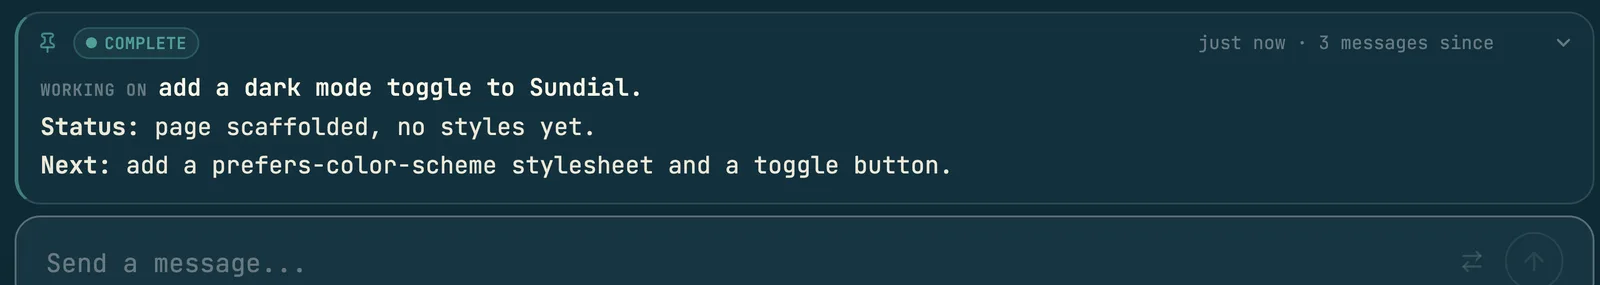
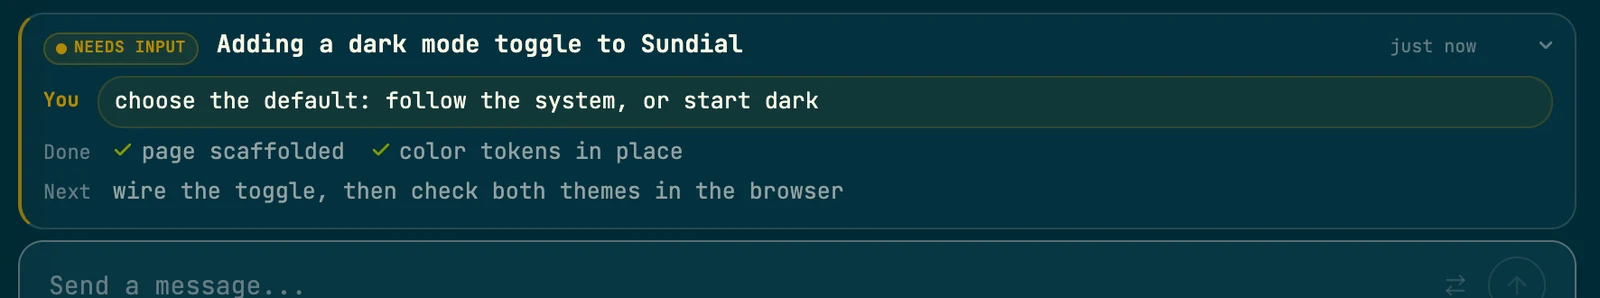
docs(web): thread state guide and hero sample follow the new card
New panel screenshot, the guide's description of the header, rows and age,
the freshness figure's labels, and the hero's sample note in the new shape.

Codecast-Session: https://codecast.sh/conversation/jx788rfp0cv6rnw4pznhjtshdh8gcpge

Changed region(s): [[0.0, 0.0561, 1.0, 1.0], [0.75, 0.1123, 1.0, 0.1965], [0.9688, 0.0281, 1.0, 0.0561]]

diff --git a/packages/web/app/(marketing)/heroFly/fixtures/automation.ts b/packages/web/app/(marketing)/heroFly/fixtures/automation.ts
@@ -180,9 +180,9 @@ export function workflowRun(now: number, phase: RunPhase) {
 /** The lead's pinned state: handing the change to the trigger's run, then waiting at its gate. */
 export function pinnedState(phase: RunPhase): { text: string; status: string; messages: number } {
   if (phase === "gate" || phase === "rearmed") {
-    return { text: `Waiting on review of ${OBJECTS.task.shortId}\nStatus: implement and verify passed\nNext: merge once someone approves the gate`, status: "blocked", messages: 71 };
+    return { text: `Waiting on review of ${OBJECTS.task.shortId}\nYou: approve the review gate to merge\nDone: implement · verify passed`, status: "blocked", messages: 71 };
   }
-  return { text: `${OBJECTS.task.title}\nStatus: the CI trigger runs it through implement, verify and review\nNext: answer the review gate`, status: "working", messages: 68 };
+  return { text: `${OBJECTS.task.title}\nNext: the CI trigger runs it through implement, verify and review · then the review gate`, status: "working", messages: 68 };
 }
 
 export const entities: Record<string, EntityFixture> = {};

diff --git a/packages/web/app/(marketing)/documentation/guides/figures/thread-state.tsx b/packages/web/app/(marketing)/documentation/guides/figures/thread-state.tsx
@@ -37,8 +37,8 @@ export function FreshnessFigure() {
     </g>
   );
   const zones: { x: number; ink: Ink; title: string; sub: string; at: number }[] = [
-    { x: mx(0) + 6, ink: "cyan", title: "fresh", sub: "cyan pin", at: 0.4 },
-    { x: mx(MSG.aging) + 6, ink: "yellow", title: "aging", sub: "yellow pin and counter", at: 0.2 + SWEEP * (mx(MSG.aging) - X0) / W },
+    { x: mx(0) + 6, ink: "cyan", title: "fresh", sub: "just the age", at: 0.4 },
+    { x: mx(MSG.aging) + 6, ink: "yellow", title: "aging", sub: "age turns yellow", at: 0.2 + SWEEP * (mx(MSG.aging) - X0) / W },
     { x: mx(MSG.stale) + 6, ink: "red", title: "stale", sub: "hidden everywhere", at: 0.2 + SWEEP * (mx(MSG.stale) - X0) / W },
   ];
   return (

diff --git a/packages/web/app/(marketing)/documentation/guides/content/thread-state.md b/packages/web/app/(marketing)/documentation/guides/content/thread-state.md
@@ -2,7 +2,7 @@ A long session is hard to walk back into. The transcript holds everything the ag
 
 With Thread State on, the agent keeps one short note pinned to the session that answers that question: what it is working on, where things stand, what comes next, and whether anything is yours to decide. It rewrites the note as the work moves and clears it when it stops being true. You see it above the composer the moment you open the session, and on the session's inbox card before you open anything.
 
-![The pinned state above the composer: a Complete chip, the time and messages since it was written, and three lines: Working on, Status and Next](/documentation/thread-state/pinned-panel.webp "A pinned state in a conversation. The chip says who acts next, the counter on the right says how far the thread has moved since the agent wrote it.")
+![The pinned state above the composer: a Needs input chip and the headline on one line, then a You line on amber, a Done checklist and a Next line](/documentation/thread-state/pinned-panel.webp "A pinned state in a conversation. The chip says who acts next, the headline says where the work stands, and the You line is what the agent needs from you.")
 
 ## Turn it on
 
@@ -18,12 +18,12 @@ You don't need to ask for it once it is on, but you can steer it:
 
 **In the conversation**, the note sits in a panel just above the composer:
 
-- A pin and a status chip: **In progress**, **Needs input**, **Complete** or **Dormant**. A note without a status shows **Pinned**.
-- On the right, how old it is in time and in messages, such as *4m ago · 12 messages since*.
-- The body leads with **Working on** and the headline, then lines like **Status:**, **Next:** and **Blocked:** in bold. A long note folds to **Show all**.
-- Click the header to collapse the panel to its first line. The **×** that appears on hover clears the note; a toast reads *Pinned state cleared* with **Undo**.
+- The header is the answer: a status chip (**In progress**, **Needs input**, **Complete** or **Dormant**) and the headline, one line on where the work stands. A note without a status shows **Pinned**.
+- On the right, how old it is, such as *4m*. Once the thread has run well past the note, it turns yellow, and when messages are why, it counts them: *4h · 64 new messages*.
+- Under the header, each detail line sits beside its label. **You** is what the agent needs from you, on amber, with a **Copy** button when it is a command. **Done** is a checklist of what is finished, and **Next** says what happens next and when. A long note folds to **Show all**.
+- Click the header to collapse the panel to the headline. The **×** that appears on hover clears the note; a toast reads *Pinned state cleared* with **Undo**.
 
-**On the inbox card**, the note replaces the generated summary with one line: the **Status:** or **Blocked:** line, or the first line when there is neither. A small pin marks it, colored by status, and a chip names a blocked, done or dormant session so you can scan the inbox without opening anything.
+**On the inbox card**, the note replaces the generated summary with one line: what the agent needs from you when there is something, otherwise the headline. A small pin marks it, colored by status, and a chip names a blocked, done or dormant session so you can scan the inbox without opening anything.
 
 ## Who acts next
 
@@ -47,7 +47,7 @@ FreshnessFigure
 Fresh, aging, then hidden, by messages or by hours, whichever comes first.
 ```
 
-For its first 60 messages the note is fresh, with a cyan pin. After that the pin and the counter turn yellow. At 200 messages it is hidden everywhere, because a line the thread has run far past is worse than no line. Time counts too, more gently: a session parked overnight on a long test run hasn't changed, so the clock only ages a note after 12 hours and hides it after 48. Each rewrite starts both counts again.
+For its first 60 messages the note is fresh. After that its age turns yellow and the header counts the messages since. At 200 messages it is hidden everywhere, because a line the thread has run far past is worse than no line. Time counts too, more gently: a session parked overnight on a long test run hasn't changed, so the clock only ages a note after 12 hours and hides it after 48. Each rewrite starts both counts again.
 
 ## When something is off
 
